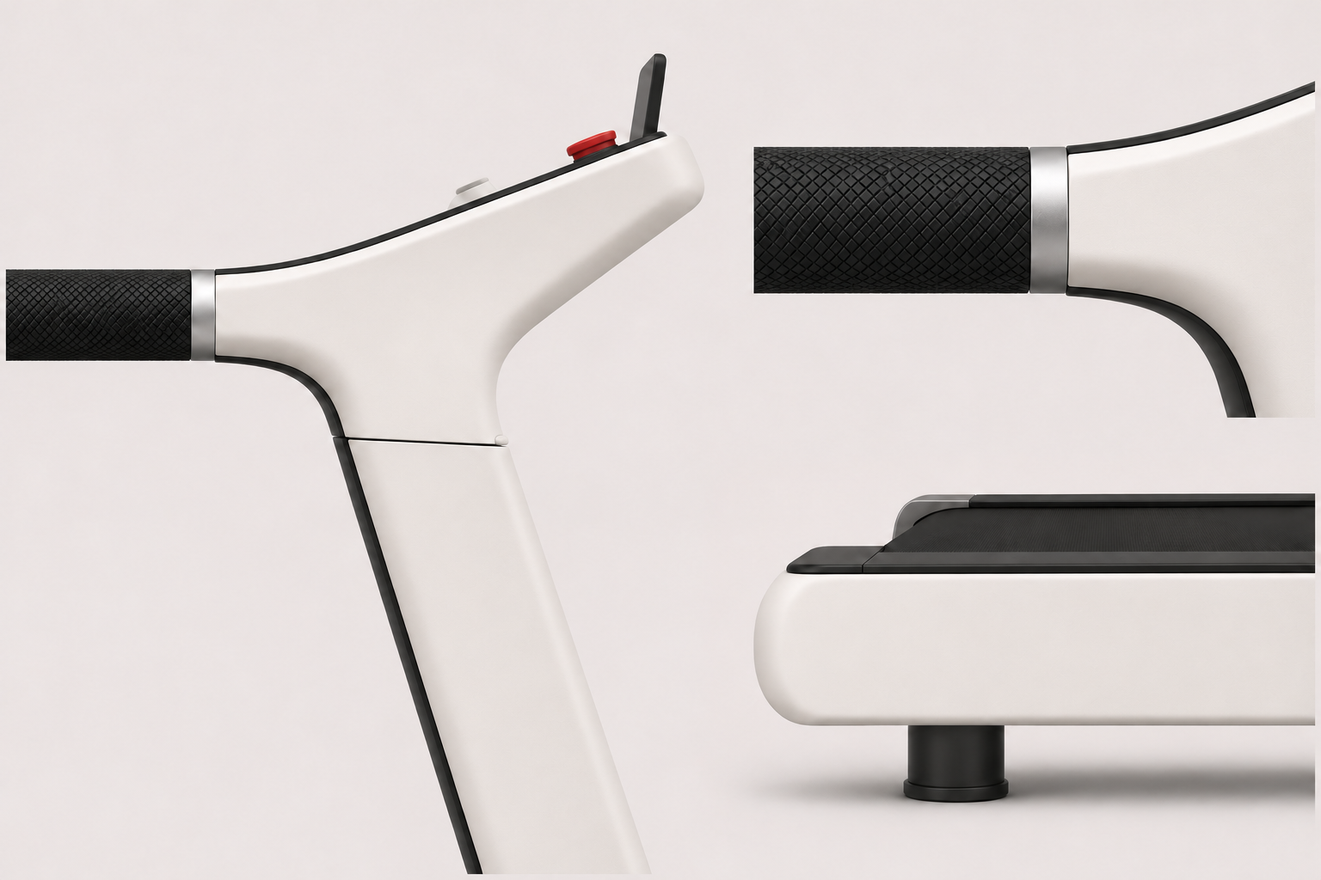
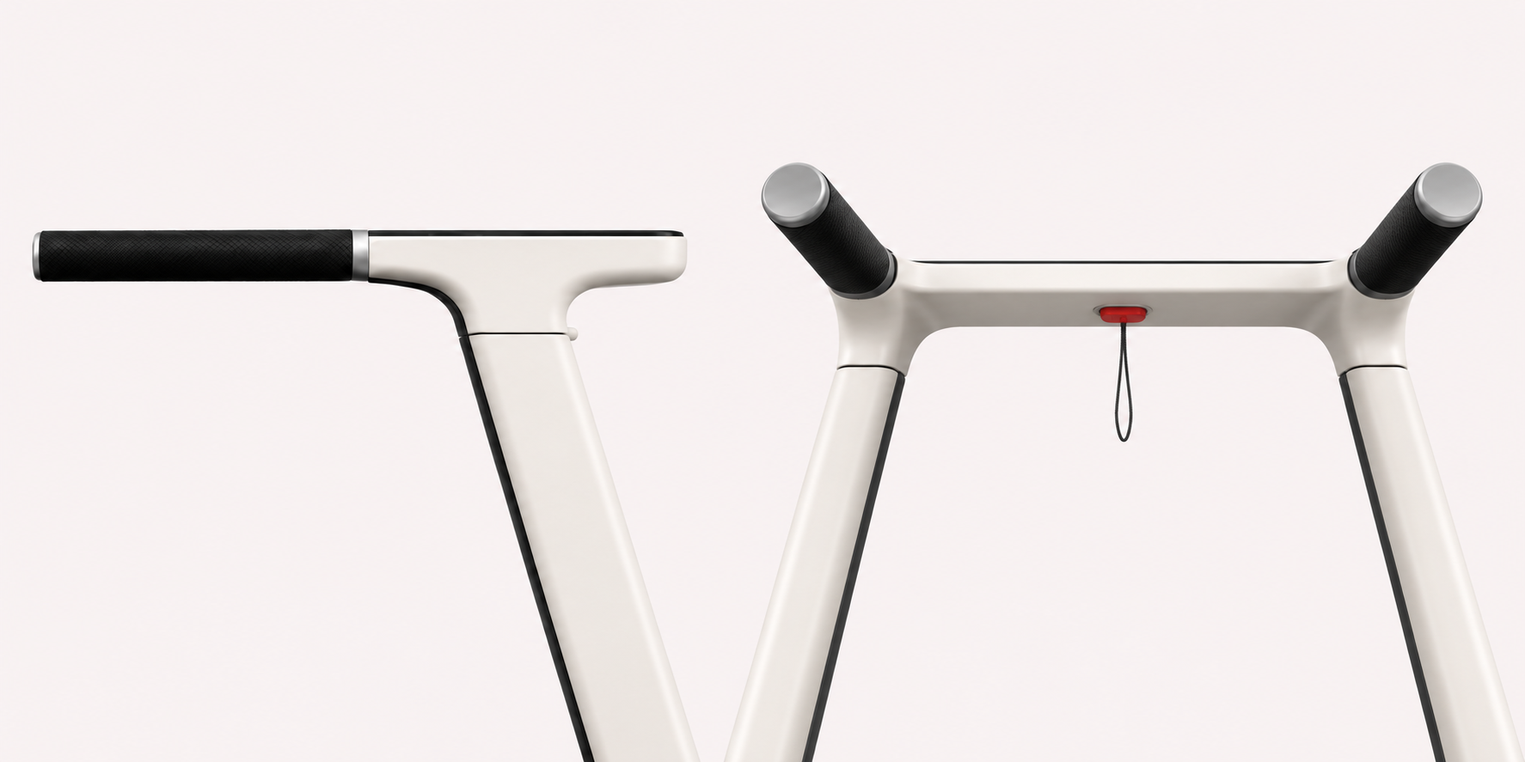
Flatten Linear console and place safety key below center

Changed region(s): [[0.0, 0.0609, 1.0, 1.0], [0.4062, 0.6392, 0.4375, 0.761], [0.375, 0.5479, 0.4062, 0.6088]]

diff --git a/iterations/linear-reference-cmf-20261121/index.html b/iterations/linear-reference-cmf-20261121/index.html
@@ -1,5 +1,5 @@
 <!doctype html>
-<html lang="zh-CN"><head><meta charset="utf-8"><meta name="viewport" content="width=device-width,initial-scale=1"><meta name="theme-color" content="#eeede9"><meta name="description" content="凌序黑白款融合深化：暖白壳体、真实头柱切口、UOK逐帧折叠参考与给同事的建模分件资料。"><title>凌序黑白款 · 折叠分件与融合外观</title><style>html{scroll-behavior:smooth}.ref-nav{display:flex;flex-wrap:wrap;gap:12px;margin:0 0 50px}.ref-nav a{background:#202320;color:white;padding:10px 18px;border-radius:30px;text-decoration:none}.gallery{display:grid;grid-template-columns:repeat(3,minmax(0,1fr));gap:20px}.shot{margin:0;background:white;border-radius:14px;overflow:hidden}.zoom-shot{display:block;position:relative;height:260px;background:#f8f8f8;overflow:hidden}.zoom-shot img{width:100%;height:100%;object-fit:contain}.zoom-shot.focus{aspect-ratio:1.5;height:auto}.zoom-shot span{position:absolute;right:12px;bottom:10px;background:#fffE;color:#222;padding:4px 10px;border-radius:20px;font-size:12px}.shot figcaption{padding:16px}.shot small{display:block;margin:5px 0}.shot figcaption a{font-size:13px}dialog{padding:0;border:0;width:96vw;max-width:none;height:95dvh;max-height:none;background:#141614;color:#fff;border-radius:12px}dialog::backdrop{background:#000b}.viewer-bar{display:flex;align-items:center;gap:12px;padding:12px 18px;flex-wrap:wrap;border-bottom:1px solid #444}.viewer-bar button,.viewer-bar a{background:#fff;color:#222;border:0;border-radius:5px;padding:8px 12px;cursor:pointer;font:inherit;font-size:14px}.viewer-title{flex:1;min-width:160px}.viewer-title small{display:block;color:#bbb}.viewer-stage{overflow:auto;height:calc(100% - 95px);padding:12px;text-align:center}.viewer-stage img{max-width:100%;max-height:100%;object-fit:contain;vertical-align:top}.viewer-stage.native img{max-width:none;max-height:none;width:auto;height:auto}.viewer-stage.native{text-align:left}@media(max-width:900px){.gallery{grid-template-columns:repeat(2,minmax(0,1fr))}}@media(max-width:600px){.gallery{grid-template-columns:1fr}.zoom-shot{height:290px}.viewer-bar{gap:7px}.viewer-stage{height:calc(100% - 145px)}}</style>
+<html lang="zh-CN"><head><meta charset="utf-8"><meta name="viewport" content="width=device-width,initial-scale=1"><meta name="theme-color" content="#eeede9"><meta name="description" content="凌序黑白款平表头修订：与扶手基本持平，屏幕默认齐平朝上，安全锁中央下置；保留头柱切口与UOK折叠参考。"><title>凌序黑白款 · 平表头与真实分件</title><style>html{scroll-behavior:smooth}.ref-nav{display:flex;flex-wrap:wrap;gap:12px;margin:0 0 50px}.ref-nav a{background:#202320;color:white;padding:10px 18px;border-radius:30px;text-decoration:none}.gallery{display:grid;grid-template-columns:repeat(3,minmax(0,1fr));gap:20px}.shot{margin:0;background:white;border-radius:14px;overflow:hidden}.zoom-shot{display:block;position:relative;height:260px;background:#f8f8f8;overflow:hidden}.zoom-shot img{width:100%;height:100%;object-fit:contain}.zoom-shot.focus{aspect-ratio:1.5;height:auto}.zoom-shot span{position:absolute;right:12px;bottom:10px;background:#fffE;color:#222;padding:4px 10px;border-radius:20px;font-size:12px}.shot figcaption{padding:16px}.shot small{display:block;margin:5px 0}.shot figcaption a{font-size:13px}dialog{padding:0;border:0;width:96vw;max-width:none;height:95dvh;max-height:none;background:#141614;color:#fff;border-radius:12px}dialog::backdrop{background:#000b}.viewer-bar{display:flex;align-items:center;gap:12px;padding:12px 18px;flex-wrap:wrap;border-bottom:1px solid #444}.viewer-bar button,.viewer-bar a{background:#fff;color:#222;border:0;border-radius:5px;padding:8px 12px;cursor:pointer;font:inherit;font-size:14px}.viewer-title{flex:1;min-width:160px}.viewer-title small{display:block;color:#bbb}.viewer-stage{overflow:auto;height:calc(100% - 95px);padding:12px;text-align:center}.viewer-stage img{max-width:100%;max-height:100%;object-fit:contain;vertical-align:top}.viewer-stage.native img{max-width:none;max-height:none;width:auto;height:auto}.viewer-stage.native{text-align:left}@media(max-width:900px){.gallery{grid-template-columns:repeat(2,minmax(0,1fr))}}@media(max-width:600px){.gallery{grid-template-columns:1fr}.zoom-shot{height:290px}.viewer-bar{gap:7px}.viewer-stage{height:calc(100% - 145px)}}</style>
 <style>
 :root{--paper:#eeede9;--ink:#242622;--muted:#73756d;--line:#d9d8d2;--white:#faf9f6}
 *{box-sizing:border-box}html{scroll-behavior:smooth}body{margin:0;background:var(--paper);color:var(--ink);font:16px/1.7 -apple-system,BlinkMacSystemFont,"Segoe UI","PingFang SC",sans-serif}a{color:inherit;text-underline-offset:5px}button,input{font:inherit}button{cursor:pointer}img{max-width:100%;vertical-align:middle}main{width:min(1500px,100%);margin:auto;padding:0 4.2vw}section{margin:0 0 108px;scroll-margin-top:28px}h1,h2,h3,p,figure{margin:0}h1{font-weight:450;font-size:clamp(34px,4.6vw,72px);line-height:1.16;letter-spacing:-.05em}h2{font-size:clamp(28px,3.2vw,46px);font-weight:450;line-height:1.25;letter-spacing:-.035em}h3{font-size:20px;font-weight:520;line-height:1.4}p+p{margin-top:13px}.tag{font-size:11px;font-weight:600;letter-spacing:.16em;line-height:1.5;text-transform:uppercase}.muted,small{color:var(--muted)}small{font-size:12px}
@@ -18,16 +18,22 @@
 <div class="topbar"><span>LIJIUJIA / LINEAR</span><nav aria-label="页面导航"><a href="#folding">看折叠</a><a href="#modeling">给建模</a><a href="#downloads">下载资料</a></nav></div>
 
 <section id="linear-application">
-<header class="intro"><div><div class="tag">WARM WHITE × BLACK / 2026.11.21</div><h1>把圆润留给外壳。<br>把切口留给折叠。</h1></div><div class="intro-copy"><div class="status">融合深化提议 · 新图待评审</div><p>沿「暖白圆角壳体语言」接近正确的方向继续。用 Ossby GEO 的平阔面与节点秩序，结合 Braun Powerdrill 参考图的柔和边缘，回到同一台凌序。</p></div></header>
-<a class="image-link hero-board" href="03-fused-side.png" target="_blank"><img src="03-fused-side.webp" width="1536" height="1024" alt="凌序黑白融合外观侧面提议：暖白壳体、黑色握持面，头柱交界保留横切口，侧栏取消流线装饰" fetchpriority="high"></a>
-<div class="caption"><span>01 / 融合外观 · 整机正侧面</span><span>AI生成外观提议，非CAD渲染；轮廓、缝宽与切口斜率非原件测绘。</span></div>
-<div class="changes"><article><b>真实切口，重新出现</b><p>头部与长立柱分开建模，暖白壳体不能跨过活动界面。</p></article><article><b>两侧留白，整体显薄</b><p>取消跑台左右小流线饰件，用连续平净长面组织侧栏。</p></article><article><b>同一种语言，分件清楚</b><p>平阔主面配圆润边缘；黑色留给握持面、内缘与功能件。</p></article></div>
+<header class="intro"><div><div class="tag">WARM WHITE × BLACK / 2026.11.21</div><h1>表头与扶手持平。<br>切口留给真实折叠。</h1></div><div class="intro-copy"><div class="status">平表头修订提议 · 新图待评审</div><p>按本轮标注纠正：暖白圆角壳体保持平面，顶面与扶手基本持平。屏幕先齐平朝上；安全锁移到整机表头正下方中央。手机支架先不加入。</p></div></header>
+<a class="image-link hero-board" href="03-fused-side.png" target="_blank"><img src="03-fused-side.webp" width="1536" height="1024" alt="凌序黑白款修订侧面提议：平表头与扶手基本持平、屏幕齐平朝上，无手机支架，头柱横切口保留，侧栏取消流线装饰" fetchpriority="high"></a>
+<div class="caption"><span>01 / 平表头修订 · 整机正侧面</span><span>AI生成外观与位置示意，非CAD渲染或机构验证；尺寸、间隙与装配待核对。</span></div>
+<div class="changes"><article><b>壳体放平，头柱切口保留</b><p>表头顶面与扶手基本持平；头部与立柱仍是独立件，外壳不能跨过活动界面。</p></article><article><b>屏幕先齐平朝上</b><p>只有显示模块可考虑独立小幅翻起；做不到或破坏整体一致性，就保持朝上。</p></article><article><b>安全锁中央下置</b><p>位于整机表头正下方、宽度中央，独立于折叠小扳机；不放在扶手外侧。</p></article></div>
 </section>
 
-<section id="details"><div class="section-head"><div><div class="tag">01 / FORM & PARTING</div><h2>外表连贯，<br>活动件仍然分开。</h2></div><p>头部上段与立柱下段是独立对象。使用态让主面、轮廓与黑白边界对齐；圆角分别止于本件。缝里应有真实让位空间，不能只画一条黑线。</p></div>
-<a class="image-link" href="04-fused-details.png" target="_blank"><img src="04-fused-details.webp" width="1536" height="1024" loading="lazy" alt="凌序融合外观细节提议：头柱切口、黑色内缘、切齐握把连接与圆润端部"></a>
-<div class="caption"><span>02 / 头部 · 立柱 · 扶手 · 侧栏</span><span>切口边缘触发件仅作位置示意；原小扳机按原件还原，非原件测绘。</span></div>
-<div class="subnotes"><article><h3>切口贯穿真实分件</h3><p>两侧面与内侧均有分界，黑色内边随各自零件在关节断开。折叠时两件分离，不用跨缝饰条封住关节。</p></article><article><h3>握把连接直接切齐</h3><p>沿用R5已确认材质及连接逻辑；本图黑色握持面是展示示例，不构成从四种材质中重新选型。</p></article><article><h3>大面平静，端部圆收</h3><p>Ossby取平阔主面；Braun取舒展内角。侧板去掉小S饰线，后墩以弧面收口。</p></article></div>
+<section id="details"><div class="section-head"><div><div class="tag">01 / FLAT HEAD & PARTING</div><h2>表头保持平面，<br>关节保持真实分件。</h2></div><p>平整的是表头壳体，显示角度另行处理。头部上段与立柱下段仍是独立对象；使用态对齐，圆角分别止于本件。安全锁在表头正下方中央，与切口边缘的小扳机分开。</p></div>
+<a class="image-link" href="04-fused-details.png" target="_blank"><img src="04-fused-details.webp" width="1774" height="887" loading="lazy" alt="凌序平表头细节提议：左侧展示与扶手持平的头部及头柱切口，右侧从用户侧低角度展示两个扶手之间、表头正下方中央安全锁"></a>
+<div class="caption"><span>02 / 左：平表头与切口 · 右：从用户侧看中央下置安全锁</span><span>新图只作外观与位置示意；原小扳机按原件还原，安全锁安装与机构尚未核验。</span></div>
+<div class="subnotes"><article><h3>切口贯穿真实分件</h3><p>两侧面与内侧均有分界，黑色内边随各自零件在关节断开。折叠时关节打开，不用跨缝饰条封住它。</p></article><article><h3>握把连接直接切齐</h3><p>沿用R5已确认材质及连接逻辑；本图黑色握持面是展示示例，不构成从四种材质中重新选型。</p></article><article><h3>平阔面与柔和圆角</h3><p>Ossby取平阔主面，Braun取舒展内角；表头不因显示倾角而上扬。侧板去掉小S饰线，后墩以弧面收口。</p></article></div>
+</section>
+
+<section id="screen-safety"><div class="section-head"><div><div class="tag">USER CORRECTION / SCREEN & SAFETY</div><h2>按标注读位置，<br>不让透视带偏结构。</h2></div><p>以下完整保留本轮标注原图，作为本次修订依据。红横线约束表头与扶手的平整关系，蓝线只表示屏幕的可选倾角；红框是安全锁在此透视下的投影。</p></div>
+<a class="image-link" href="../../references/linear-fold-language-20261121/user-flat-head-annotation-original.png" target="_blank"><img src="../../references/linear-fold-language-20261121/user-flat-head-annotation-original.png" width="1202" height="828" loading="lazy" alt="用户完整标注原图：红横线要求表头与扶手基本持平，蓝线表示仅屏幕可选倾角，红框是整机表头正下方中央安全锁的透视投影"></a>
+<div class="caption"><span>决定依据 / 用户标注原图 · 完整保留</span><span>图中的旧上扬壳体与顶部支架是被纠正对象；以标注与下方说明为准。</span></div>
+<div class="subnotes"><article><h3>屏幕：默认齐平朝上</h3><p>不改变表头壳体角度。若技术允许，且不破坏平整与整体一致性，仅显示模块可独立小幅翻起朝向用户；否则保持齐平。</p></article><article><h3>安全锁：整机中央、表头正下方</h3><p>红框不代表扶手外侧安装。安全锁置于表头下方的整机宽度中央；它与头柱切口处用于折叠的小扳机是两个独立功能件。</p></article><article><h3>支架：本轮不加</h3><p>若后续加入手机支架，从机身前方开孔、向前方接口插入附件；不让支架结构抬高表头或破坏顶部平整，兼顾海外运输。</p></article></div>
 </section>
 
 <section id="originals"><div class="section-head"><div><div class="tag">02 / ORIGINAL EVIDENCE</div><h2>这条切口，<br>来自原本的折叠关系。</h2></div><p>本轮附图把Y形头部下方的分界指出来了。原始资料负责确定对象关系；新外观负责包覆它。切口可见，仍不足以仅凭图片确定准确轴心、锁扣和行程。</p></div>
@@ -48,7 +54,9 @@
 <div class="table-wrap"><table><thead><tr><th>独立总成</th><th>建模时落实</th><th>核对依据与待定项</th></tr></thead><tbody>
 <tr><td>跑台与长侧板</td><td>左右连续平净面，取消小流线饰件及安装凹槽；保留真实端壳分件。</td><td>原CAD确定外包络与装配。侧板不能跨接固定座、活动柱及撑杆。</td></tr>
 <tr><td>左右活动立柱</td><td>平阔外侧面，圆润边缘，内侧黑色收边；与根部固定座分开。</td><td>下轴位置、轴套和固定座用真实几何核对；左右同步方案由厂家提供。</td></tr>
-<tr><td>活动头部／扶手</td><td>在Y形下端横切口处分开；闭合时表面对齐，转动时真实打开。</td><td>头部反向折叠已定；准确上轴、止挡、锁位与扫掠净空仍待结构核验。</td></tr>
+<tr><td>活动头部／扶手</td><td>表头顶面与扶手基本持平，不上扬；在Y形下端横切口处分开，转动时关节真实打开。</td><td>头部反向折叠已定；准确上轴、止挡、锁位与扫掠净空仍待结构核验。</td></tr>
+<tr><td>显示模块</td><td>默认齐平朝上。可行时仅显示模块独立小幅翻起，不带动壳体改变角度。</td><td>破坏平整或整体一致性则不翻；两版原屏并列保留，安装尺寸以真实组件核对。</td></tr>
+<tr><td>中央下置安全锁</td><td>放在整机表头正下方、宽度中央；独立于折叠小扳机。</td><td>图中短黑绳只作位置示意；锁座、拉脱方向、可及性及折叠让位待核验。</td></tr>
 <tr><td>原小扳机</td><td>单独对象，保留手指进入、扳动、回位与防误触空间。</td><td>沿用原件要求已定。图中仅预留位置示意，位置、形状与行程以原件测绘为准。</td></tr>
 <tr><td>握持面与端盖</td><td>沿R5材质与标准连接，材质直接切齐；端部圆收，握持截面显细。</td><td>四种已确认材质继续保留。外观示例不构成重新选型。</td></tr>
 <tr><td>抬升架／轮组</td><td>与底盖分开，预留实际撑杆扫掠；抬升沿原轴，轮组保持接地。</td><td>工作面目标15°；几何、行程、接地及承载需分别核验。</td></tr>
@@ -57,12 +65,12 @@
 <div class="parameter-grid"><article><h3>尺寸参数：从哪里取，先不填猜值。</h3><dl><div><dt>轴线与角度</dt><dd>上下轴中心、轴向、止挡与使用／折平锁位，取原CAD及厂家迁移方案。</dd></div><div><dt>释放与重锁</dt><dd>扳机安装位置、操作方向与有效行程，两侧释放一致性、复位及重锁条件。</dd></div><div><dt>外壳与让位</dt><dd>壳厚、圆角、切口缝宽、零件扫掠净距、手指空间与维护拆装空间。</dd></div><div><dt>联动与布线</dt><dd>两轴传力路径、同步件包络、线束长度与弯曲余量；依据组件CAD或样机。</dd></div><div><dt>整机包络</dt><dd>升级版使用／折平／竖放尺寸、屏幕与跑带接触保护、包装操作及接地稳定性。</dd></div></dl></article><article><h3>动作检查：不能只检查两个端点。</h3><div class="sequence" aria-label="应提供的状态"><span>使用锁定</span><span>扳机释放</span><span>反向翻头中间态</span><span>倒柱中间态</span><span>折平</span><span>竖放</span><span>展开重锁</span></div><p class="muted" style="font-size:12px">逐态显示横切口、上下轴、头部与立柱的不同色块，以及扫掠空间。中间态不表示已确认的动作先后；两轴耦合关系需厂家确认。</p><p class="note-strip">重点看：头部—立柱、头部—跑带、扶手—机尾、接头—柱壳、底盖—撑杆、电源—轮组。图形动画辅助讨论，不证明锁止、受力与防夹成立。</p></article></div>
 </section>
 
-<section id="screens"><div class="section-head"><div><div class="tag">05 / SCREEN BASELINES</div><h2>两张原屏幕，<br>完整保留、并列核对。</h2></div><p>屏幕可斜，屏幕构件尽量不斜。两版保持各自原比例，不重画、裁切或拉伸；尚未二选一。</p></div><div class="screens"><article class="screen-card"><div class="tag">SCREEN 01 / ORIGINAL</div><a href="../../references/linear-fold-language-20261121/screen-01-original.png" target="_blank"><img src="../../references/linear-fold-language-20261121/screen-01-original.png" width="1280" height="319" loading="lazy" alt="完整圆形按键版屏幕原图，1280×319，保持原比例"></a><h3>圆形按键版</h3><p>1280 × 319 px · 约4.01 : 1</p></article><article class="screen-card"><div class="tag">SCREEN 02 / ORIGINAL</div><a href="../../references/linear-fold-language-20261121/screen-02-original.png" target="_blank"><img src="../../references/linear-fold-language-20261121/screen-02-original.png" width="2508" height="627" loading="lazy" alt="完整分列按键版屏幕原图，2508×627，保持原比例"></a><h3>分列按键版</h3><p>2508 × 627 px · 4.00 : 1</p></article></div></section>
+<section id="screens"><div class="section-head"><div><div class="tag">05 / SCREEN BASELINES</div><h2>两张原屏幕，<br>完整保留、并列核对。</h2></div><p>默认嵌入平表头、齐平朝上。显示模块能否独立小翻另作核验，壳体保持原角度。两版保持各自原比例，不重画、裁切或拉伸；尚未二选一。</p></div><div class="screens"><article class="screen-card"><div class="tag">SCREEN 01 / ORIGINAL</div><a href="../../references/linear-fold-language-20261121/screen-01-original.png" target="_blank"><img src="../../references/linear-fold-language-20261121/screen-01-original.png" width="1280" height="319" loading="lazy" alt="完整圆形按键版屏幕原图，1280×319，保持原比例"></a><h3>圆形按键版</h3><p>1280 × 319 px · 约4.01 : 1</p></article><article class="screen-card"><div class="tag">SCREEN 02 / ORIGINAL</div><a href="../../references/linear-fold-language-20261121/screen-02-original.png" target="_blank"><img src="../../references/linear-fold-language-20261121/screen-02-original.png" width="2508" height="627" loading="lazy" alt="完整分列按键版屏幕原图，2508×627，保持原比例"></a><h3>分列按键版</h3><p>2508 × 627 px · 4.00 : 1</p></article></div></section>
 
 <section id="downloads" class="downloads"><div><div class="tag">HANDOFF / DOWNLOAD</div><h2 style="margin-top:15px">给同事，直接开始。</h2><p>参考说明汇集分件、动作观察、参数来源与待核验项。先建立真实运动骨架，再完成外观壳。</p></div><div class="download-links"><a class="primary" href="modeling-reference.md" download>下载完整建模参考 · Markdown</a><a href="03-fused-side.png" target="_blank">融合整机图 · PNG</a><a href="04-fused-details.png" target="_blank">融合细节图 · PNG</a><a href="../../references/linear-fold-language-20261121/user-junction-original.png" target="_blank">头柱切口原图</a><a href="../../references/linear-fold-language-20261121/z7pro-product-original.png" target="_blank">Z7Pro参数原图</a><a href="../../references/linear-fold-language-20261121/uok-one-key-original.gif" target="_blank">UOK折叠原GIF</a><a href="#reference-gallery">Ossby / Braun高清原图</a></div></section>
 
 <section id="reference-gallery"><details class="references"><summary><div><div class="tag" style="margin-bottom:12px">SOURCE LIBRARY / FULL ORIGINALS</div><h2>Ossby GEO 与 Braun 高清参考</h2></div></summary><p class="reference-intro">放大看真实节点、分件与表面，避免把材质印象当结构。Ossby共14张来源图；Braun同款完整图1张，另有6处原图细节窗口。所有参考原图均保持原始像素，未AI补画。</p><div class="reference-mini"><article><h3>Ossby：轮廓、主面与节点秩序</h3><p>宽阔外侧面、舒展内圆角、深色内缘及清晰分件。官网登记为复合框架；浅灰外观不等于金属。<a href="https://ossby.com/en/product/ossby-geo-electric-folding-bicycle/" target="_blank" rel="noreferrer">官网</a> · <a href="https://ifdesign.com/en/winner-ranking/project/ossby-geo/616071" target="_blank" rel="noreferrer">iF</a> · <a href="https://anima.es/en/project/ossby/" target="_blank" rel="noreferrer">ANIMA</a></p></article><article><h3>Braun参考图：圆角、浅面起伏与真实分缝</h3><p>白壳黑边，左下段同样可见真实横向分件。作者、首发与量产身份尚未核实，不归为已确认历史量产产品。<a href="https://uk.pinterest.com/pin/braun-powerdrill--12244230224211083/" target="_blank" rel="noreferrer">同源图片出处</a></p></article></div><div class="reference-block" id="geo-gallery"><h3>Ossby GEO · 14张原图</h3><p>13张长边1920–3840像素，另保留720像素官方折叠白底图。点击进入大图，可切换原始像素。</p><div class="gallery"><figure class="shot"><a class="zoom-shot " href="../../references/linear-reference-cmf-20261121/ossby-geo-if-03.jpg" data-title="前部节点 · 把横／折角／转轴" data-source="https://ifdesign.com/en/winner-ranking/project/ossby-geo/616071" data-pixels="3840 × 2160" style=""><img loading="lazy" src="../../references/linear-reference-cmf-20261121/ossby-geo-if-03.jpg" alt="前部节点 · 把横／折角／转轴" ><span>放大查看 ↗</span></a><figcaption><b>前部节点 · 把横／折角／转轴</b><small>3840 × 2160 · 来源原图</small><a href="../../references/linear-reference-cmf-20261121/ossby-geo-if-03.jpg" target="_blank">打开原图</a> · <a href="https://ifdesign.com/en/winner-ranking/project/ossby-geo/616071" target="_blank" rel="noreferrer">来源</a></figcaption></figure><figure class="shot"><a class="zoom-shot " href="../../references/linear-reference-cmf-20261121/ossby-geo-if-04.jpg" data-title="后部节点 · 座管／尾灯／内圆角" data-source="https://ifdesign.com/en/winner-ranking/project/ossby-geo/616071" data-pixels="3840 × 2160" style=""><img loading="lazy" src="../../references/linear-reference-cmf-20261121/ossby-geo-if-04.jpg" alt="后部节点 · 座管／尾灯／内圆角" ><span>放大查看 ↗</span></a><figcaption><b>后部节点 · 座管／尾灯／内圆角</b><small>3840 × 2160 · 来源原图</small><a href="../../references/linear-reference-cmf-20261121/ossby-geo-if-04.jpg" target="_blank">打开原图</a> · <a href="https://ifdesign.com/en/winner-ranking/project/ossby-geo/616071" target="_blank" rel="noreferrer">来源</a></figcaption></figure><figure class="shot"><a class="zoom-shot " href="../../references/linear-reference-cmf-20261121/ossby-230315_Detalle_2.png" data-title="车架下部 · 连杆与前叉" data-source="https://ossby.com/en/product/ossby-geo-electric-folding-bicycle/" data-pixels="2560 × 1440" style=""><img loading="lazy" src="../../references/linear-reference-cmf-20261121/ossby-230315_Detalle_2.png" alt="车架下部 · 连杆与前叉" ><span>放大查看 ↗</span></a><figcaption><b>车架下部 · 连杆与前叉</b><small>2560 × 1440 · 来源原图</small><a href="../../references/linear-reference-cmf-20261121/ossby-230315_Detalle_2.png" target="_blank">打开原图</a> · <a href="https://ossby.com/en/product/ossby-geo-electric-folding-bicycle/" target="_blank" rel="noreferrer">来源</a></figcaption></figure><figure class="shot"><a class="zoom-shot " href="../../references/linear-reference-cmf-20261121/ossby-230315_Detalle_3.png" data-title="后轮与传动 · 黑灰材质分区" data-source="https://ossby.com/en/product/ossby-geo-electric-folding-bicycle/" data-pixels="2560 × 1440" style=""><img loading="lazy" src="../../references/linear-reference-cmf-20261121/ossby-230315_Detalle_3.png" alt="后轮与传动 · 黑灰材质分区" ><span>放大查看 ↗</span></a><figcaption><b>后轮与传动 · 黑灰材质分区</b><small>2560 × 1440 · 来源原图</small><a href="../../references/linear-reference-cmf-20261121/ossby-230315_Detalle_3.png" target="_blank">打开原图</a> · <a href="https://ossby.com/en/product/ossby-geo-electric-folding-bicycle/" target="_blank" rel="noreferrer">来源</a></figcaption></figure><figure class="shot"><a class="zoom-shot " href="../../references/linear-reference-cmf-20261121/ossby-230315_Detalle_4.png" data-title="后肩与尾灯 · 平面转折" data-source="https://ossby.com/en/product/ossby-geo-electric-folding-bicycle/" data-pixels="2560 × 1440" style=""><img loading="lazy" src="../../references/linear-reference-cmf-20261121/ossby-230315_Detalle_4.png" alt="后肩与尾灯 · 平面转折" ><span>放大查看 ↗</span></a><figcaption><b>后肩与尾灯 · 平面转折</b><small>2560 × 1440 · 来源原图</small><a href="../../references/linear-reference-cmf-20261121/ossby-230315_Detalle_4.png" target="_blank">打开原图</a> · <a href="https://ossby.com/en/product/ossby-geo-electric-folding-bicycle/" target="_blank" rel="noreferrer">来源</a></figcaption></figure><figure class="shot"><a class="zoom-shot " href="../../references/linear-reference-cmf-20261121/ossby-230315_Detalle_5.png" data-title="上部框架 · 管件与平板对比" data-source="https://ossby.com/en/product/ossby-geo-electric-folding-bicycle/" data-pixels="2560 × 1440" style=""><img loading="lazy" src="../../references/linear-reference-cmf-20261121/ossby-230315_Detalle_5.png" alt="上部框架 · 管件与平板对比" ><span>放大查看 ↗</span></a><figcaption><b>上部框架 · 管件与平板对比</b><small>2560 × 1440 · 来源原图</small><a href="../../references/linear-reference-cmf-20261121/ossby-230315_Detalle_5.png" target="_blank">打开原图</a> · <a href="https://ossby.com/en/product/ossby-geo-electric-folding-bicycle/" target="_blank" rel="noreferrer">来源</a></figcaption></figure><figure class="shot"><a class="zoom-shot " href="../../references/linear-reference-cmf-20261121/ossby-230315_Detalle_6.png" data-title="脚踏与链轮 · 连接关系" data-source="https://ossby.com/en/product/ossby-geo-electric-folding-bicycle/" data-pixels="2560 × 1440" style=""><img loading="lazy" src="../../references/linear-reference-cmf-20261121/ossby-230315_Detalle_6.png" alt="脚踏与链轮 · 连接关系" ><span>放大查看 ↗</span></a><figcaption><b>脚踏与链轮 · 连接关系</b><small>2560 × 1440 · 来源原图</small><a href="../../references/linear-reference-cmf-20261121/ossby-230315_Detalle_6.png" target="_blank">打开原图</a> · <a href="https://ossby.com/en/product/ossby-geo-electric-folding-bicycle/" target="_blank" rel="noreferrer">来源</a></figcaption></figure><figure class="shot"><a class="zoom-shot " href="../../references/linear-reference-cmf-20261121/ossby-frenos-de-disco-ossby-geo-bici-plegable.png" data-title="前轮 · 刹车／挡泥板／前叉" data-source="https://ossby.com/en/product/ossby-geo-electric-folding-bicycle/" data-pixels="1920 × 1080" style=""><img loading="lazy" src="../../references/linear-reference-cmf-20261121/ossby-frenos-de-disco-ossby-geo-bici-plegable.png" alt="前轮 · 刹车／挡泥板／前叉" ><span>放大查看 ↗</span></a><figcaption><b>前轮 · 刹车／挡泥板／前叉</b><small>1920 × 1080 · 来源原图</small><a href="../../references/linear-reference-cmf-20261121/ossby-frenos-de-disco-ossby-geo-bici-plegable.png" target="_blank">打开原图</a> · <a href="https://ossby.com/en/product/ossby-geo-electric-folding-bicycle/" target="_blank" rel="noreferrer">来源</a></figcaption></figure><figure class="shot"><a class="zoom-shot " href="../../references/linear-reference-cmf-20261121/ossby-anima-ossby-01-scaled.webp" data-title="前部近景 · 握把与框架边缘" data-source="https://anima.es/en/project/ossby/" data-pixels="2560 × 1462" style=""><img loading="lazy" src="../../references/linear-reference-cmf-20261121/ossby-anima-ossby-01-scaled.webp" alt="前部近景 · 握把与框架边缘" ><span>放大查看 ↗</span></a><figcaption><b>前部近景 · 握把与框架边缘</b><small>2560 × 1462 · 来源原图</small><a href="../../references/linear-reference-cmf-20261121/ossby-anima-ossby-01-scaled.webp" target="_blank">打开原图</a> · <a href="https://anima.es/en/project/ossby/" target="_blank" rel="noreferrer">来源</a></figcaption></figure><figure class="shot"><a class="zoom-shot " href="../../references/linear-reference-cmf-20261121/ossby-anima-ossby-03-scaled.webp" data-title="折叠状态 · 推行与比例" data-source="https://anima.es/en/project/ossby/" data-pixels="2560 × 1462" style=""><img loading="lazy" src="../../references/linear-reference-cmf-20261121/ossby-anima-ossby-03-scaled.webp" alt="折叠状态 · 推行与比例" ><span>放大查看 ↗</span></a><figcaption><b>折叠状态 · 推行与比例</b><small>2560 × 1462 · 来源原图</small><a href="../../references/linear-reference-cmf-20261121/ossby-anima-ossby-03-scaled.webp" target="_blank">打开原图</a> · <a href="https://anima.es/en/project/ossby/" target="_blank" rel="noreferrer">来源</a></figcaption></figure><figure class="shot"><a class="zoom-shot " href="../../references/linear-reference-cmf-20261121/ossby-anima-ossby-04-scaled.webp" data-title="展开／折叠 · 使用场景" data-source="https://anima.es/en/project/ossby/" data-pixels="2560 × 1462" style=""><img loading="lazy" src="../../references/linear-reference-cmf-20261121/ossby-anima-ossby-04-scaled.webp" alt="展开／折叠 · 使用场景" ><span>放大查看 ↗</span></a><figcaption><b>展开／折叠 · 使用场景</b><small>2560 × 1462 · 来源原图</small><a href="../../references/linear-reference-cmf-20261121/ossby-anima-ossby-04-scaled.webp" target="_blank">打开原图</a> · <a href="https://anima.es/en/project/ossby/" target="_blank" rel="noreferrer">来源</a></figcaption></figure><figure class="shot"><a class="zoom-shot " href="../../references/linear-reference-cmf-20261121/ossby-geo-if-05.jpg" data-title="完整侧向 · 车架与轮组比例" data-source="https://ifdesign.com/en/winner-ranking/project/ossby-geo/616071" data-pixels="3840 × 2160" style=""><img loading="lazy" src="../../references/linear-reference-cmf-20261121/ossby-geo-if-05.jpg" alt="完整侧向 · 车架与轮组比例" ><span>放大查看 ↗</span></a><figcaption><b>完整侧向 · 车架与轮组比例</b><small>3840 × 2160 · 来源原图</small><a href="../../references/linear-reference-cmf-20261121/ossby-geo-if-05.jpg" target="_blank">打开原图</a> · <a href="https://ifdesign.com/en/winner-ranking/project/ossby-geo/616071" target="_blank" rel="noreferrer">来源</a></figcaption></figure><figure class="shot"><a class="zoom-shot " href="../../references/linear-reference-cmf-20261121/ossby-geo-if-01.jpg" data-title="整车三分之四 · 框架体量" data-source="https://ifdesign.com/en/winner-ranking/project/ossby-geo/616071" data-pixels="2160 × 3840" style=""><img loading="lazy" src="../../references/linear-reference-cmf-20261121/ossby-geo-if-01.jpg" alt="整车三分之四 · 框架体量" ><span>放大查看 ↗</span></a><figcaption><b>整车三分之四 · 框架体量</b><small>2160 × 3840 · 来源原图</small><a href="../../references/linear-reference-cmf-20261121/ossby-geo-if-01.jpg" target="_blank">打开原图</a> · <a href="https://ifdesign.com/en/winner-ranking/project/ossby-geo/616071" target="_blank" rel="noreferrer">来源</a></figcaption></figure><figure class="shot"><a class="zoom-shot " href="../../references/linear-reference-cmf-20261121/ossby-geo-official-folded.jpg" data-title="官方折叠白底图 · 720像素" data-source="https://ossby.com/en/product/ossby-geo-electric-folding-bicycle/" data-pixels="720 × 720" style=""><img loading="lazy" src="../../references/linear-reference-cmf-20261121/ossby-geo-official-folded.jpg" alt="官方折叠白底图 · 720像素" ><span>放大查看 ↗</span></a><figcaption><b>官方折叠白底图 · 720像素</b><small>720 × 720 · 来源原图</small><a href="../../references/linear-reference-cmf-20261121/ossby-geo-official-folded.jpg" target="_blank">打开原图</a> · <a href="https://ossby.com/en/product/ossby-geo-electric-folding-bicycle/" target="_blank" rel="noreferrer">来源</a></figcaption></figure></div></div><div class="reference-block" id="braun-gallery"><h3>Braun Powerdrill参考 · 完整图与六处窗口</h3><p>六处窗口均来自同一张3840 × 3840原图，不是新增照片或其他视角。</p><div class="gallery"><figure class="shot"><a class="zoom-shot " href="../../references/linear-reference-cmf-20261121/braun-powerdrill-original.jpg" data-title="完整侧面 · 同款3840原图" data-source="https://uk.pinterest.com/pin/braun-powerdrill--12244230224211083/" data-pixels="3840 × 3840" style=""><img loading="lazy" src="../../references/linear-reference-cmf-20261121/braun-powerdrill-original.jpg" alt="完整侧面 · 同款3840原图" ><span>放大查看 ↗</span></a><figcaption><b>完整侧面 · 同款3840原图</b><small>3840 × 3840 · 来源原图</small><a href="../../references/linear-reference-cmf-20261121/braun-powerdrill-original.jpg" target="_blank">打开原图</a> · <a href="https://uk.pinterest.com/pin/braun-powerdrill--12244230224211083/" target="_blank" rel="noreferrer">来源</a></figcaption></figure><figure class="shot"><a class="zoom-shot focus" href="../../references/linear-reference-cmf-20261121/braun-powerdrill-original.jpg" data-title="上肩圆角与黑色外缘" data-source="https://uk.pinterest.com/pin/braun-powerdrill--12244230224211083/" data-pixels="3840 × 3840" style="aspect-ratio:1.4999999999999998"><img loading="lazy" src="../../references/linear-reference-cmf-20261121/braun-powerdrill-original.jpg" alt="上肩圆角与黑色外缘" style="position:absolute;width:238.0952380952381%;max-width:none;left:-57.14285714285714%;top:-50.0%;height:auto"><span>放大查看 ↗</span></a><figcaption><b>上肩圆角与黑色外缘</b><small>3840 × 3840 · 同一原图局部窗口</small><a href="../../references/linear-reference-cmf-20261121/braun-powerdrill-original.jpg" target="_blank">打开原图</a> · <a href="https://uk.pinterest.com/pin/braun-powerdrill--12244230224211083/" target="_blank" rel="noreferrer">来源</a></figcaption></figure><figure class="shot"><a class="zoom-shot focus" href="../../references/linear-reference-cmf-20261121/braun-powerdrill-original.jpg" data-title="通风槽与右上圆角" data-source="https://uk.pinterest.com/pin/braun-powerdrill--12244230224211083/" data-pixels="3840 × 3840" style="aspect-ratio:0.92"><img loading="lazy" src="../../references/linear-reference-cmf-20261121/braun-powerdrill-original.jpg" alt="通风槽与右上圆角" style="position:absolute;width:434.78260869565213%;max-width:none;left:-295.6521739130435%;top:-64.0%;height:auto"><span>放大查看 ↗</span></a><figcaption><b>通风槽与右上圆角</b><small>3840 × 3840 · 同一原图局部窗口</small><a href="../../references/linear-reference-cmf-20261121/braun-powerdrill-original.jpg" target="_blank">打开原图</a> · <a href="https://uk.pinterest.com/pin/braun-powerdrill--12244230224211083/" target="_blank" rel="noreferrer">来源</a></figcaption></figure><figure class="shot"><a class="zoom-shot focus" href="../../references/linear-reference-cmf-20261121/braun-powerdrill-original.jpg" data-title="内圆角／扳机／圆按钮" data-source="https://uk.pinterest.com/pin/braun-powerdrill--12244230224211083/" data-pixels="3840 × 3840" style="aspect-ratio:1.56"><img loading="lazy" src="../../references/linear-reference-cmf-20261121/braun-powerdrill-original.jpg" alt="内圆角／扳机／圆按钮" style="position:absolute;width:256.4102564102564%;max-width:none;left:-115.38461538461537%;top:-152.0%;height:auto"><span>放大查看 ↗</span></a><figcaption><b>内圆角／扳机／圆按钮</b><small>3840 × 3840 · 同一原图局部窗口</small><a href="../../references/linear-reference-cmf-20261121/braun-powerdrill-original.jpg" target="_blank">打开原图</a> · <a href="https://uk.pinterest.com/pin/braun-powerdrill--12244230224211083/" target="_blank" rel="noreferrer">来源</a></figcaption></figure><figure class="shot"><a class="zoom-shot focus" href="../../references/linear-reference-cmf-20261121/braun-powerdrill-original.jpg" data-title="握把横纹与底部收口" data-source="https://uk.pinterest.com/pin/braun-powerdrill--12244230224211083/" data-pixels="3840 × 3840" style="aspect-ratio:0.8214285714285714"><img loading="lazy" src="../../references/linear-reference-cmf-20261121/braun-powerdrill-original.jpg" alt="握把横纹与底部收口" style="position:absolute;width:434.78260869565213%;max-width:none;left:-291.30434782608694%;top:-200.0%;height:auto"><span>放大查看 ↗</span></a><figcaption><b>握把横纹与底部收口</b><small>3840 × 3840 · 同一原图局部窗口</small><a href="../../references/linear-reference-cmf-20261121/braun-powerdrill-original.jpg" target="_blank">打开原图</a> · <a href="https://uk.pinterest.com/pin/braun-powerdrill--12244230224211083/" target="_blank" rel="noreferrer">来源</a></figcaption></figure><figure class="shot"><a class="zoom-shot focus" href="../../references/linear-reference-cmf-20261121/braun-powerdrill-original.jpg" data-title="左侧横向分缝与框面" data-source="https://uk.pinterest.com/pin/braun-powerdrill--12244230224211083/" data-pixels="3840 × 3840" style="aspect-ratio:0.9333333333333335"><img loading="lazy" src="../../references/linear-reference-cmf-20261121/braun-powerdrill-original.jpg" alt="左侧横向分缝与框面" style="position:absolute;width:357.1428571428571%;max-width:none;left:-85.7142857142857%;top:-126.66666666666669%;height:auto"><span>放大查看 ↗</span></a><figcaption><b>左侧横向分缝与框面</b><small>3840 × 3840 · 同一原图局部窗口</small><a href="../../references/linear-reference-cmf-20261121/braun-powerdrill-original.jpg" target="_blank">打开原图</a> · <a href="https://uk.pinterest.com/pin/braun-powerdrill--12244230224211083/" target="_blank" rel="noreferrer">来源</a></figcaption></figure><figure class="shot"><a class="zoom-shot focus" href="../../references/linear-reference-cmf-20261121/braun-powerdrill-original.jpg" data-title="壳体凸台与面起伏" data-source="https://uk.pinterest.com/pin/braun-powerdrill--12244230224211083/" data-pixels="3840 × 3840" style="aspect-ratio:1.6956521739130435"><img loading="lazy" src="../../references/linear-reference-cmf-20261121/braun-powerdrill-original.jpg" alt="壳体凸台与面起伏" style="position:absolute;width:256.4102564102564%;max-width:none;left:-69.23076923076923%;top:-82.6086956521739%;height:auto"><span>放大查看 ↗</span></a><figcaption><b>壳体凸台与面起伏</b><small>3840 × 3840 · 同一原图局部窗口</small><a href="../../references/linear-reference-cmf-20261121/braun-powerdrill-original.jpg" target="_blank">打开原图</a> · <a href="https://uk.pinterest.com/pin/braun-powerdrill--12244230224211083/" target="_blank" rel="noreferrer">来源</a></figcaption></figure></div></div></details></section>
-<footer class="footer"><span>LIJIUJIA / LINEAR · 黑白融合深化 · 2026.11.21</span><span>来源观察、外观提议与工程待确认分别标明。新图待评审，结构适配尚未核验。</span></footer>
+<footer class="footer"><span>LIJIUJIA / LINEAR · 黑白款平表头修订 · 2026.11.21</span><span>来源观察、外观提议与工程待确认分别标明。新图待评审，结构适配尚未核验。</span></footer>
 </main><dialog id="image-viewer" aria-label="高清原图查看"><div class="viewer-bar"><button id="previous-image" aria-label="上一张">←</button><button id="next-image" aria-label="下一张">→</button><div class="viewer-title"><b id="image-title"></b><small id="image-pixels"></small></div><button id="native-pixels">原始像素 1:1</button><a id="image-original" target="_blank">打开原图 ↗</a><a id="image-source" target="_blank" rel="noreferrer">来源 ↗</a><button id="close-viewer">关闭 ×</button></div><div class="viewer-stage"><img id="large-image" alt=""></div></dialog><script>
 const shots=[...document.querySelectorAll('.zoom-shot')],dialog=document.querySelector('#image-viewer'),stage=dialog.querySelector('.viewer-stage'),large=document.querySelector('#large-image'),toggle=document.querySelector('#native-pixels');let current=0;
 function showImage(i){current=(i+shots.length)%shots.length;const a=shots[current];large.src=a.href;large.alt=a.dataset.title;document.querySelector('#image-title').textContent=a.dataset.title;document.querySelector('#image-pixels').textContent=a.dataset.pixels+' · 未经AI放大';document.querySelector('#image-original').href=a.href;document.querySelector('#image-source').href=a.dataset.source;stage.classList.remove('native');toggle.textContent='原始像素 1:1';stage.scrollTo(0,0);if(!dialog.open)dialog.showModal();}
